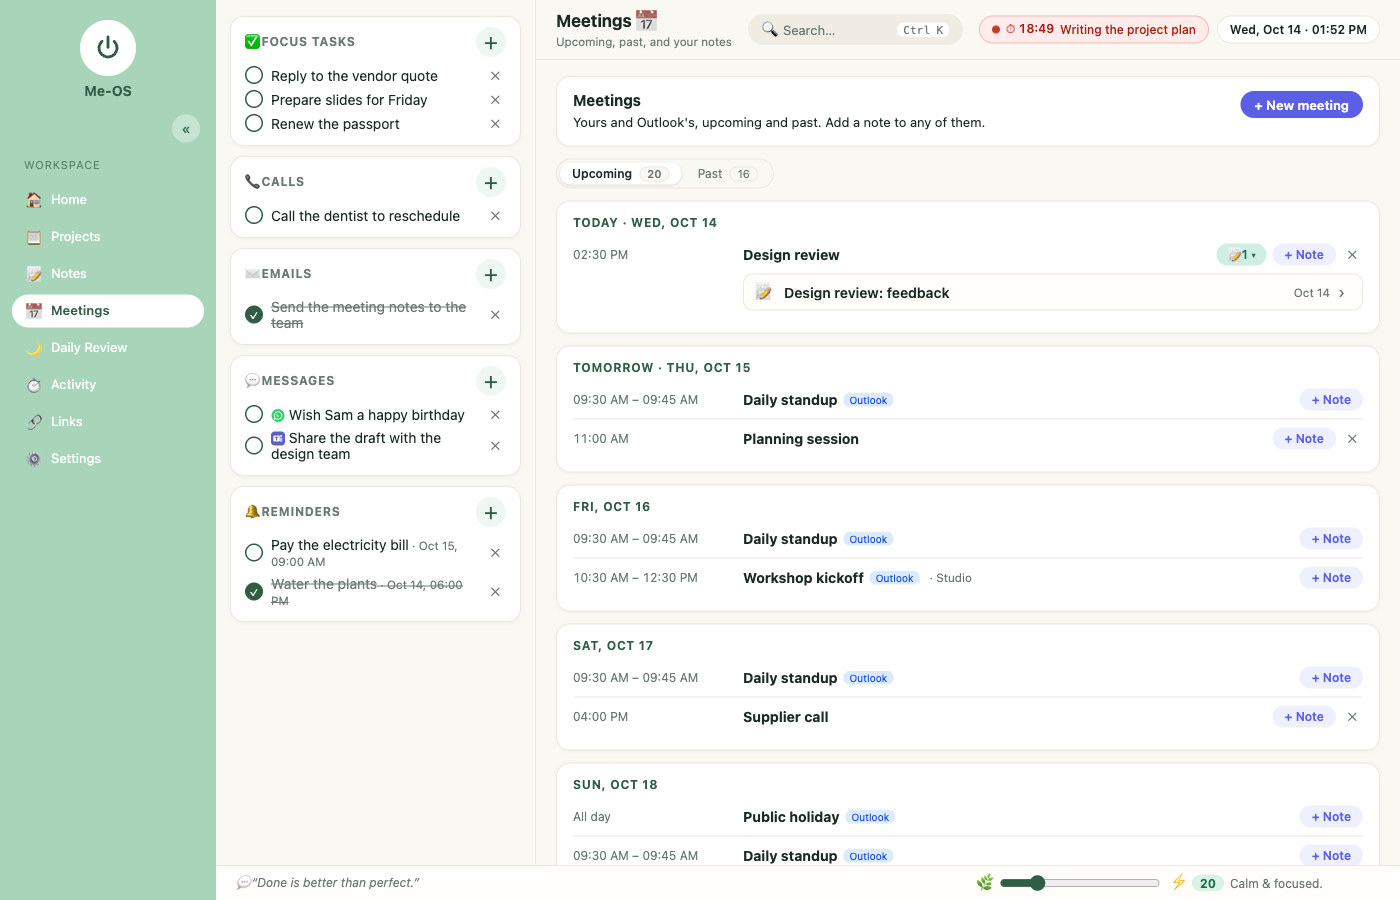
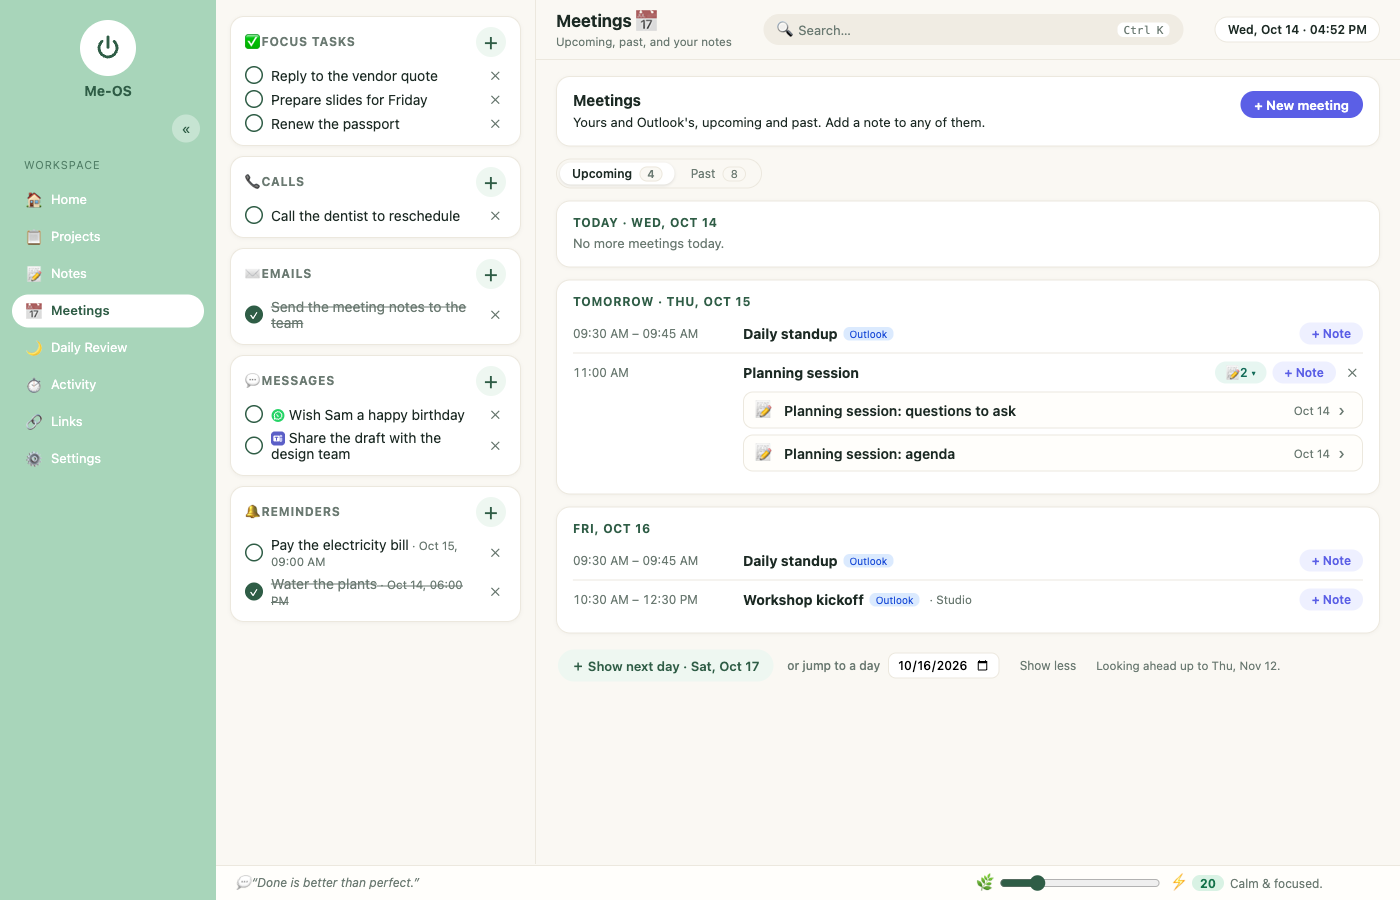
Meetings: show today and tomorrow, reveal further days on demand
- Upcoming starts at today and tomorrow; "Show next day" adds one day at a time
- Jump to a day with a date picker (up to 30 days ahead); "Show less" resets
- Empty days say so; a link or a new meeting for a later day opens the view that far
- Past tab unchanged; README text and screenshot updated

diff --git a/client/src/pages/Meetings.tsx b/client/src/pages/Meetings.tsx
@@ -13,12 +13,21 @@ const dayLabel = (d: Date | null) => {
   const text = d.toLocaleDateString([], { weekday: 'short', day: 'numeric', month: 'short' })
   return diff === 0 ? `Today · ${text}` : diff === 1 ? `Tomorrow · ${text}` : diff === -1 ? `Yesterday · ${text}` : text
 }
+const keyToDate = (key: string) => { const [y, m, d] = key.split('-').map(Number); return new Date(y, m - 1, d) }
+const addDaysKey = (key: string, n: number) => { const d = keyToDate(key); d.setDate(d.getDate() + n); return dayKey(d) }
+const labelForKey = (key: string) => (key === 'none' ? 'No date' : dayLabel(keyToDate(key)))
+const shortLabel = (key: string) => keyToDate(key).toLocaleDateString([], { weekday: 'short', day: 'numeric', month: 'short' })
+const daysFrom = (from: string, through: string) => { const out: string[] = []; for (let k = from; k <= through; k = addDaysKey(k, 1)) out.push(k); return out }
 const refOf = (m: Meeting): MeetingRef => ({ key: m.key, title: m.title, start: m.start ? m.start.toISOString() : null })
 
 export default function Meetings({ arg }: { arg?: string }) {
   const today = dayKey(new Date())
   const target = arg && /^\d{4}-\d{2}-\d{2}$/.test(arg) ? arg : null // a link from a note: open the right tab at that day
   const [tab, setTab] = useState<'upcoming' | 'past'>(target && target < today ? 'past' : 'upcoming')
+  const tomorrow = addDaysKey(today, 1)
+  const maxThrough = addDaysKey(today, UPCOMING_DAYS - 1) // the furthest ahead Me-OS looks
+  // Upcoming shows today and tomorrow; "Show next day" or the date picker reaches further. A link to a later day opens that far.
+  const [through, setThrough] = useState(() => (target && target > tomorrow && target <= maxThrough ? target : tomorrow))
   const [meetings, setMeetings] = useState<Meeting[]>([])
   const [notes, setNotes] = useState<Note[]>([])
   const [projects, setProjects] = useState<Project[]>([])
@@ -58,7 +67,7 @@ export default function Meetings({ arg }: { arg?: string }) {
     () => meetings.filter((m) => isPast(m, now)).sort((a, b) => b.start!.getTime() - a.start!.getTime()),
     [meetings, now], // eslint-disable-line react-hooks/exhaustive-deps
   )
-  const shown = tab === 'upcoming' ? upcoming : past
+  const upcomingShown = useMemo(() => upcoming.filter((m) => !m.start || dayKey(m.start) <= through), [upcoming, through])
 
   const notesByMeeting = useMemo(() => {
     const map = new Map<string, Note[]>()
@@ -66,11 +75,14 @@ export default function Meetings({ arg }: { arg?: string }) {
     return map
   }, [notes])
 
+  // Upcoming: one card for every day up to `through` (empty days say so); undated meetings last. Past: only days that had meetings.
   const groups = useMemo(() => {
-    const g = new Map<string, Meeting[]>()
-    for (const m of shown) g.set(dayKey(m.start), [...(g.get(dayKey(m.start)) ?? []), m])
-    return [...g.entries()]
-  }, [shown])
+    const byDay = new Map<string, Meeting[]>()
+    for (const m of tab === 'upcoming' ? upcomingShown : past) byDay.set(dayKey(m.start), [...(byDay.get(dayKey(m.start)) ?? []), m])
+    if (tab === 'past') return [...byDay.entries()]
+    const days = daysFrom(today, through).map((k) => [k, byDay.get(k) ?? []] as [string, Meeting[]])
+    return byDay.has('none') ? [...days, ['none', byDay.get('none')!] as [string, Meeting[]]] : days
+  }, [tab, upcomingShown, past, through, today])
 
   // Arrived from a note's meeting chip: scroll to that day and highlight it
   useEffect(() => {
@@ -83,6 +95,7 @@ export default function Meetings({ arg }: { arg?: string }) {
     e.preventDefault()
     try {
       await api.createItem('meeting', title.trim(), new Date(`${date}T${time}`).toISOString())
+      if (date > through && date <= maxThrough) setThrough(date)
       setTitle(''); setAdding(false); setTab('upcoming')
       await load()
     } catch (err) { setError((err as Error).message) }
@@ -159,7 +172,7 @@ export default function Meetings({ arg }: { arg?: string }) {
       )}
 
       <div className="seg mtabs" role="tablist" aria-label="Which meetings">
-        <button role="tab" aria-selected={tab === 'upcoming'} className={tab === 'upcoming' ? 'sel' : ''} onClick={() => setTab('upcoming')}>Upcoming <small>{upcoming.length}</small></button>
+        <button role="tab" aria-selected={tab === 'upcoming'} className={tab === 'upcoming' ? 'sel' : ''} onClick={() => setTab('upcoming')}>Upcoming <small>{upcomingShown.length}</small></button>
         <button role="tab" aria-selected={tab === 'past'} className={tab === 'past' ? 'sel' : ''} onClick={() => setTab('past')}>Past <small>{past.length}</small></button>
       </div>
 
@@ -167,15 +180,32 @@ export default function Meetings({ arg }: { arg?: string }) {
       {loaded && !outlook.connected && <p className="muted"><small>Connect your Outlook calendar in <a href="#settings">Settings</a> to see its meetings here too.</small></p>}
       {tab === 'past' && <p className="muted"><small>Showing the last {PAST_DAYS} days.</small></p>}
 
-      {loaded && shown.length === 0 && (
-        <p className="card empty">{tab === 'upcoming' ? 'No upcoming meetings. Add one, or connect Outlook.' : 'No past meetings in the last 60 days.'}</p>
-      )}
+      {loaded && tab === 'past' && past.length === 0 && <p className="card empty">No past meetings in the last 60 days.</p>}
       {groups.map(([key, list]) => (
         <section key={key} id={`day-${key}`} className="card mday">
-          <h5>{dayLabel(list[0].start)}</h5>
-          <ul className="mlist">{list.map(row)}</ul>
+          <h5>{labelForKey(key)}</h5>
+          {list.length === 0 ? (
+            <p className="dayempty">{key === today ? 'No more meetings today.' : 'No meetings.'}</p>
+          ) : (
+            <ul className="mlist">{list.map(row)}</ul>
+          )}
         </section>
       ))}
+
+      {tab === 'upcoming' && loaded && (
+        <div className="moredays">
+          <button className="navbtn" disabled={through >= maxThrough} onClick={() => setThrough(addDaysKey(through, 1))}>
+            ＋ Show next day{through < maxThrough && ` · ${shortLabel(addDaysKey(through, 1))}`}
+          </button>
+          <label className="jump">
+            or jump to a day
+            <input type="date" className="datein" min={tomorrow} max={maxThrough} value={through > tomorrow ? through : ''}
+              onChange={(e) => e.target.value && setThrough(e.target.value < tomorrow ? tomorrow : e.target.value > maxThrough ? maxThrough : e.target.value)} />
+          </label>
+          {through > tomorrow && <button className="ghost" onClick={() => setThrough(tomorrow)}>Show less</button>}
+          <small className="muted">Looking ahead up to {shortLabel(maxThrough)}.</small>
+        </div>
+      )}
 
       {dlg && (
         <NoteDialog noteId={dlg.noteId} defaultMeeting={refOf(dlg.meeting)} projects={projects} onClose={() => setDlg(null)} onChanged={reloadNotes} />

diff --git a/client/src/index.css b/client/src/index.css
@@ -766,3 +766,9 @@ header { container: hdr / inline-size; }
   .switch i { width: 26px; height: 26px; }
   .switch.on i { transform: translateX(22px); }
 }
+
+/* Meetings: reveal further days on demand */
+.dayempty { margin: 0; font-size: 13px; color: var(--muted); }
+.moredays { display: flex; align-items: center; gap: 10px 14px; flex-wrap: wrap; padding: 4px 2px 8px; }
+.moredays .jump { display: inline-flex; flex-direction: row; align-items: center; gap: 8px; margin: 0; font-size: 12px; font-weight: 500; color: var(--muted); }
+@media (max-width: 700px), (pointer: coarse) { .moredays .datein { min-height: 36px; } }

diff --git a/README.md b/README.md
@@ -12,7 +12,7 @@ noticed, and how it went. It runs on your own computer, and your data stays ther
 - **Today's summary**: one click copies a short plain-text briefing (top 3, meetings, deadlines, reminders, tasks, calls, messages, check-ins) to paste into your phone's notes or a chat.
 - **Tasks column**: Focus tasks, calls, emails, messages (WhatsApp or Teams) and reminders, always beside you.
 - **Projects**: compact cards with steps you can drag into order, due dates, a Work or Personal type, and notes.
-- **Meetings**: your own and your Outlook meetings in one list, upcoming and past. Add a note to any of them, using the same note editor. The dashboard shows today's meetings.
+- **Meetings**: your own and your Outlook meetings in one list. Upcoming shows today and tomorrow, with a button to reveal each following day. Add a note to any meeting, upcoming or past, using the same note editor. The dashboard shows today's meetings.
 - **Notes**: markdown with tickable checklists, `#tags`, pinning, search, and links to projects and meetings.
 - **Daily Review**: a short nightly ritual: check-ins with streaks, wins, goals moved forward in tiny steps, reflection,
   tomorrow's top 3, and a brain dump. Plus a **History** page with a heatmap of rating, energy and stress.
@@ -29,7 +29,7 @@ noticed, and how it went. It runs on your own computer, and your data stays ther
 |---|---|
 | [![Projects](docs/screenshots/projects.png)](docs/screenshots/projects.png)<br>**Projects**: compact cards with progress, due dates and a pink badge for personal projects. | [![A project open in the editor](docs/screenshots/project-editor.png)](docs/screenshots/project-editor.png)<br>**Project editor**: reorderable steps with due dates, plus the notes that belong to the project. |
 | [![Notes](docs/screenshots/notes.png)](docs/screenshots/notes.png)<br>**Notes**: markdown with tickable checklists, tags, pinning, and links back to projects and meetings. | [![Daily Review](docs/screenshots/daily-review.png)](docs/screenshots/daily-review.png)<br>**Daily Review**: check-ins with streaks, wins, what's unfinished, and goals moved forward in tiny steps. |
-| [![Meetings](docs/screenshots/meetings.png)](docs/screenshots/meetings.png)<br>**Meetings**: yours and Outlook's, with the notes you took under each one. | [![Review History](docs/screenshots/history.png)](docs/screenshots/history.png)<br>**Review History**: a month heatmap of rating, energy or stress, with weekday patterns. |
+| [![Meetings](docs/screenshots/meetings.png)](docs/screenshots/meetings.png)<br>**Meetings**: today and tomorrow first, with the notes you took under each meeting and a button to reveal further days. | [![Review History](docs/screenshots/history.png)](docs/screenshots/history.png)<br>**Review History**: a month heatmap of rating, energy or stress, with weekday patterns. |
 | [![Privacy settings](docs/screenshots/privacy.png)](docs/screenshots/privacy.png)<br>**Privacy**: optional internet features are off until you switch them on, and you can export or erase everything. | |
 
 <p align="center">
